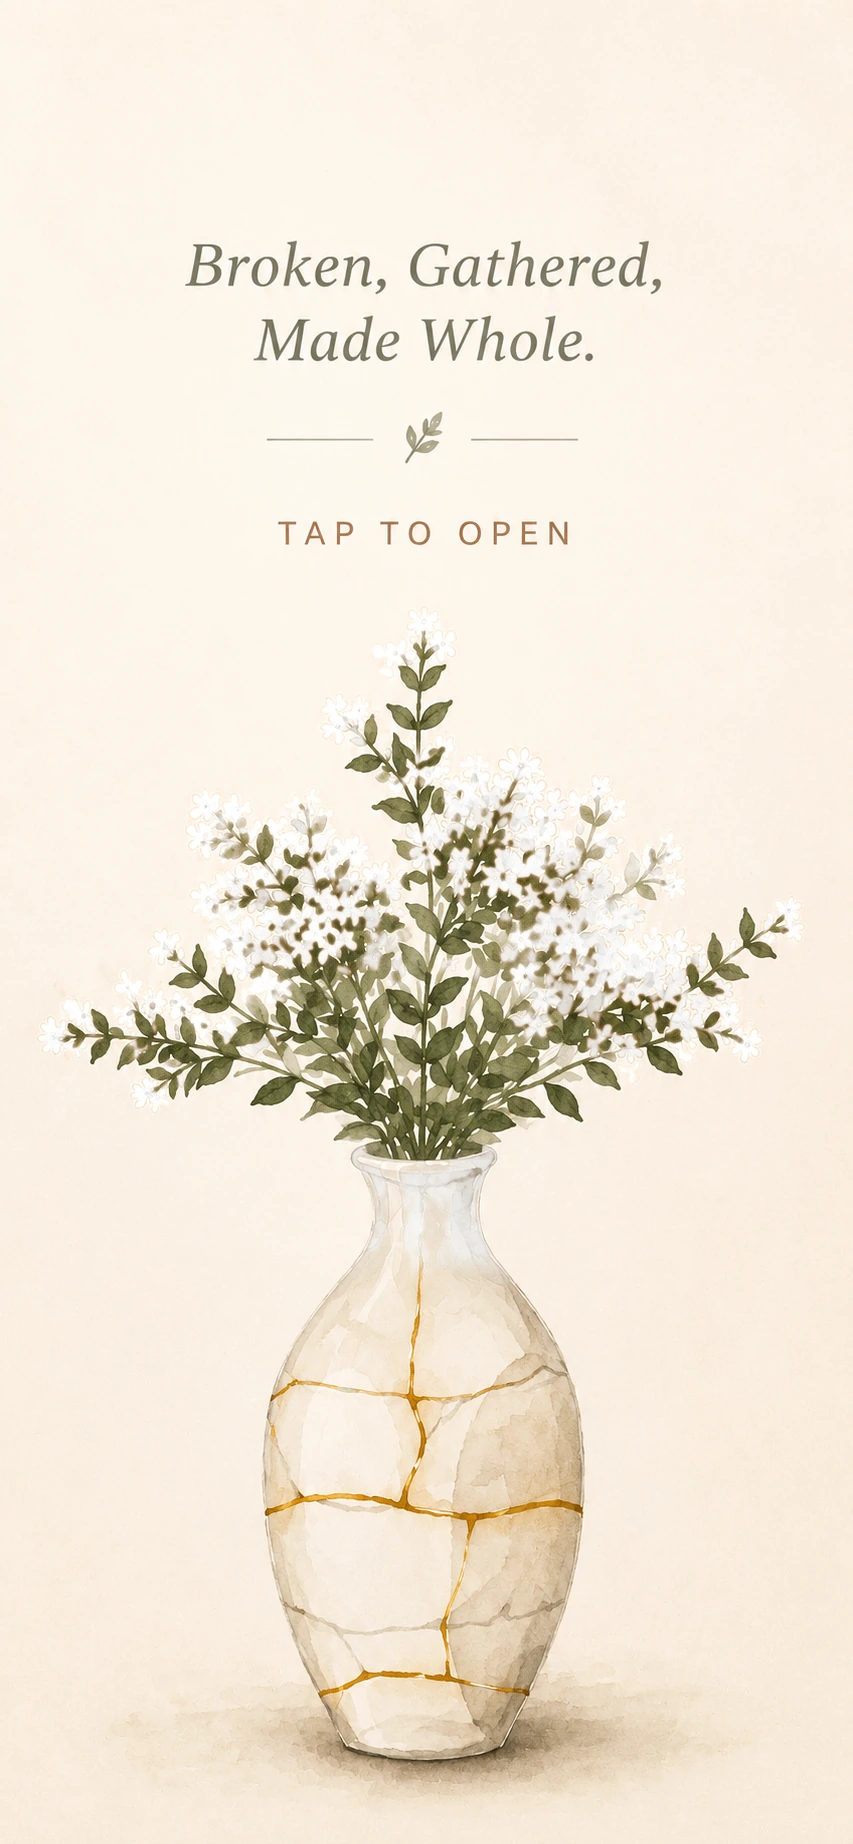
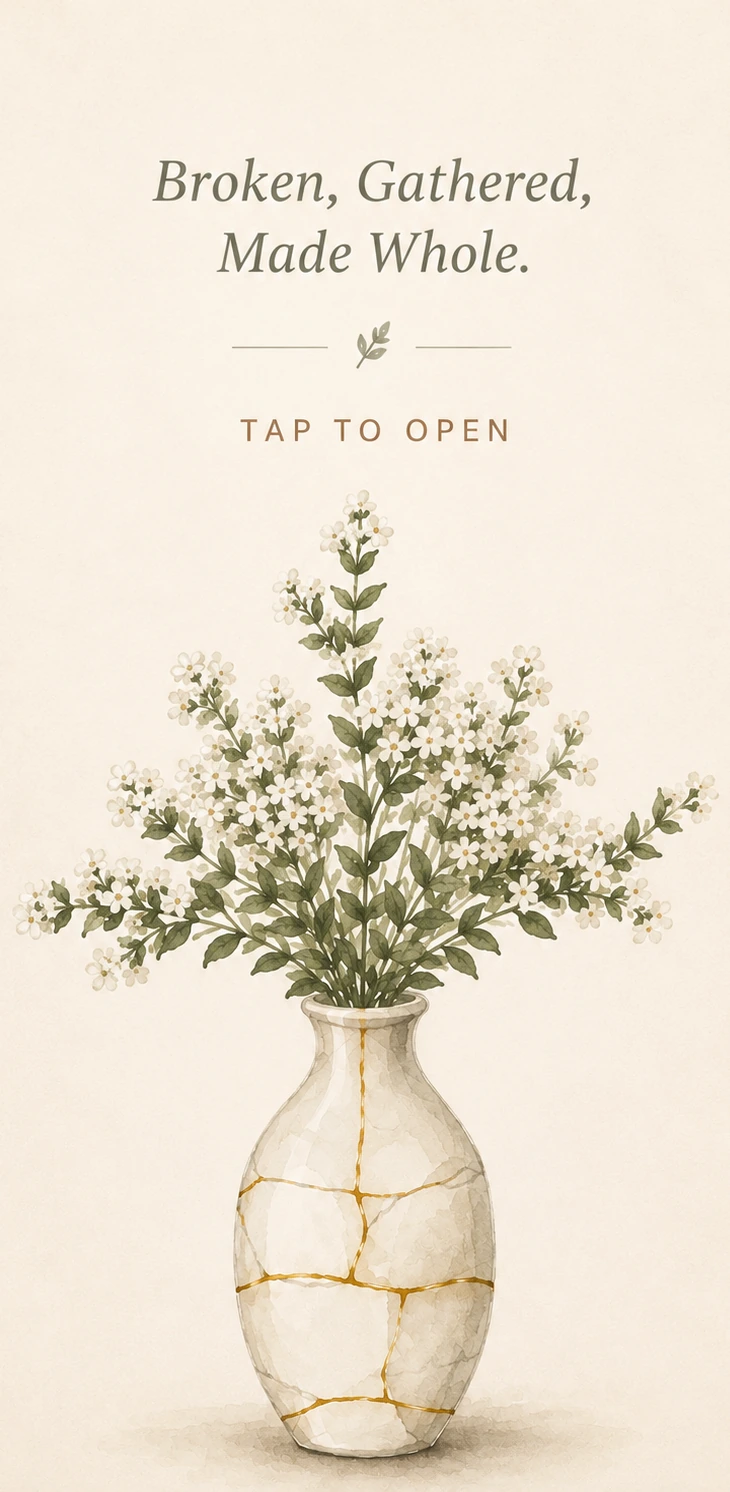
The new cover painting, and a new line on the plate
The uploaded painting replaces the old cover, and it is the painting
itself that is served — nothing about the drawing is redrawn or altered.

It arrived at 1054x1492, which is a card's shape rather than a screen's,
and the old cover happened to be almost exactly a phone (0.4626 against
390x844's 0.4621) so it filled edge to edge. Shown as it came, this one
would have left a fifth of the screen empty above and below.

Measuring it showed the fix. The drawing occupies x 167..872; the 167px
down the left and 181px down the right are blank paper carrying nothing.
Trimming that blank paper to leave a dozen pixels either side of the
drawing brings the sheet to 0.4893, so it now fills the full width of
every phone and 94% of the height, with a 23px band top and bottom in
the sheet's own edge tone. Not one pixel of the artwork is cropped, on
any screen: it is still shown whole, so a wide screen still gets a
margin rather than a cut. The surround gradient is resampled from the
new sheet at seven points down its height.

And the line under the couple's names now reads "Join us as we build a
new church rising by God's grace and mercy." It sets to two lines at
every width from 320 to 1366 and keeps its distance from DATE.

Changed region(s): [[0.0301, 0.2775, 0.9945, 1.0], [0.211, 0.0925, 0.8137, 0.2466], [0.3315, 0.2775, 0.4219, 0.3083]]

diff --git a/karim-nardine-invitation.html b/karim-nardine-invitation.html
@@ -170,13 +170,13 @@
   #opening{
     position:fixed; inset:0; z-index:60;
     /* The painting is shown whole rather than cropped — cropping it would cut
-       the words off it — so on a screen that is not its shape there is a
-       margin. The margin is its own edge tone, sampled down its height, so the
-       join does not show at any height a screen might be. */
+       the drawing off it — so on a screen that is not its shape there is a
+       margin. The margin is the sheet's own edge tone, sampled down its height,
+       so the join does not show at any height a screen might be. */
     background:
       url("cover.webp") no-repeat center / contain,
-      linear-gradient(180deg, #FBF2E5 0%, #FBF3E7 15%, #FAF1E3 45%,
-                              #F8EEE0 60%, #F8EBDB 90%, #F7E9D8 100%);
+      linear-gradient(180deg, #F7EDDE 0%, #F8EFE2 17%, #FAF0E4 33%, #F8EEE1 50%,
+                              #F7ECDF 67%, #F6EBDD 83%, #F4E6D7 100%);
   }
 
   .inv-sheet, .thm-sheet{
@@ -1474,7 +1474,7 @@
   <span class="inv-line" style="top:58%; width:18%"></span>
 
   <p class="inv-t body" style="top:67.2%; font-size:calc(var(--h) * 0.0232); width:58%; line-height:1.7">
-    Come witness their marriage, and celebrate what God's grace and mercy has put back together.
+    Join us as we build a new church rising by God's grace and mercy.
   </p>
 
   <p class="inv-t caps clay" style="top:77.5%; font-size:calc(var(--h) * 0.0152)">Date</p>
